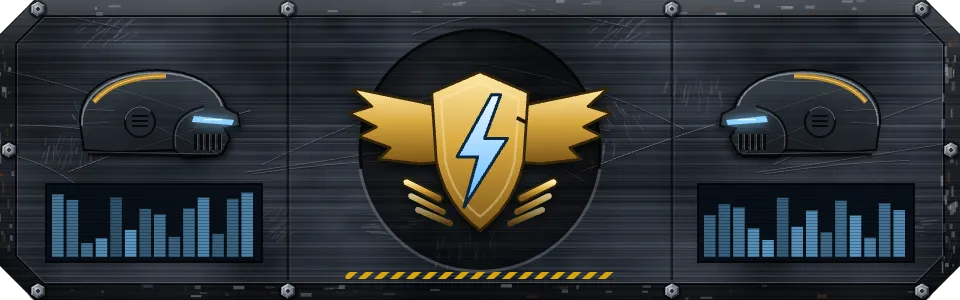
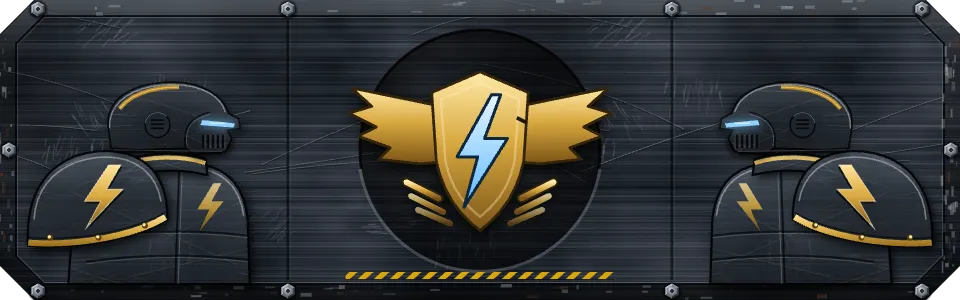
Two Fronts menus round 6: a Marine bust leads the hero plate, rust and chipped bevels on every big plate, the account chip a brass tag (Part of #3613)

diff --git a/apps/two-fronts/scripts/plates-paint.js b/apps/two-fronts/scripts/plates-paint.js
@@ -122,6 +122,53 @@ async (insigniaSvg, medals) => {
     g.restore();
   }
 
+  // A Thunder Marine from the chest up, in relief: a gunmetal breastplate with a brass collar and a stencilled bolt, the
+  // near pauldron domed and brass-rimmed with a lightning mark struck in it, and the helmet above, visor lit blue. Drawn
+  // in a 220 x 260 box facing +x, fitted into (x, y, w, h); dir -1 mirrors it about x.
+  function bust(g, x, y, w, h, dir) {
+    const s = Math.min(w / 220, h / 260);
+    g.save(); g.translate(x, y + h - 260 * s); g.scale(dir * s, s);
+    const tex = g.createPattern(steel(256, 131, "#2a313a", false), "repeat");
+    // one raised piece: a drop shadow into the plate, a lit gradient, the steel's grain, a dark outline, a lit top edge
+    const piece = (shape, top, low, edge) => {
+      g.save(); g.shadowColor = "rgba(0,0,0,0.85)"; g.shadowBlur = 10; g.shadowOffsetX = 4; g.shadowOffsetY = 5; shape(); g.fillStyle = "#151a20"; g.fill(); g.restore();
+      const lit = g.createLinearGradient(0, top, 0, low); lit.addColorStop(0, "#66717e"); lit.addColorStop(0.4, "#323a44"); lit.addColorStop(1, "#11151a");
+      shape(); g.fillStyle = lit; g.fill();
+      g.save(); shape(); g.clip(); g.globalAlpha = 0.45; g.fillStyle = tex; g.fillRect(-20, top - 20, 280, low - top + 40); g.restore();
+      shape(); g.lineWidth = 2.2; g.strokeStyle = "rgba(0,0,0,0.9)"; g.stroke();
+      if (edge) { edge(); g.lineWidth = 1.6; g.strokeStyle = "rgba(225,232,240,0.42)"; g.stroke(); }
+    };
+    const brass = (y0, y1) => { const b = g.createLinearGradient(0, y0, 0, y1); b.addColorStop(0, "#ffe39a"); b.addColorStop(0.5, "#d8a83f"); b.addColorStop(1, "#7a5414"); return b; };
+    // the breastplate: broad, sloping to the collar, its foot cut off by the bay
+    const chest = () => { g.beginPath(); g.moveTo(40, 260); g.lineTo(46, 178); g.bezierCurveTo(60, 150, 110, 138, 160, 140); g.bezierCurveTo(196, 142, 214, 160, 218, 196); g.lineTo(220, 260); g.closePath(); };
+    piece(chest, 138, 260, () => { g.beginPath(); g.moveTo(48, 176); g.bezierCurveTo(62, 152, 110, 142, 160, 144); g.bezierCurveTo(192, 146, 210, 162, 214, 192); });
+    // its plates: a centre ridge and two ribbed bands, then a brass bolt stencilled on it, worn back
+    g.beginPath(); g.moveTo(150, 146); g.lineTo(146, 260); g.lineWidth = 2; g.strokeStyle = "rgba(0,0,0,0.7)"; g.stroke();
+    g.beginPath(); g.moveTo(153, 148); g.lineTo(149, 260); g.lineWidth = 1; g.strokeStyle = "rgba(220,228,238,0.25)"; g.stroke();
+    for (const by of [214, 238]) { g.beginPath(); g.moveTo(58, by); g.bezierCurveTo(110, by - 8, 170, by - 8, 218, by - 2); g.lineWidth = 2; g.strokeStyle = "rgba(0,0,0,0.6)"; g.stroke(); g.beginPath(); g.moveTo(58, by + 2); g.bezierCurveTo(110, by - 6, 170, by - 6, 218, by); g.lineWidth = 1; g.strokeStyle = "rgba(220,228,238,0.18)"; g.stroke(); }
+    g.save(); g.globalAlpha = 0.8; g.beginPath(); g.moveTo(184, 160); g.lineTo(168, 186); g.lineTo(180, 186); g.lineTo(170, 208); g.lineTo(194, 178); g.lineTo(182, 178); g.lineTo(192, 160); g.closePath(); g.fillStyle = brass(160, 208); g.fill(); g.restore();
+    // a status lamp on the breast, the visor's cold blue
+    g.save(); g.shadowColor = "rgba(120,200,255,0.9)"; g.shadowBlur = 8; g.beginPath(); g.arc(120, 196, 4, 0, Math.PI * 2); g.fillStyle = "#8fd3ff"; g.fill(); g.restore();
+    // the collar: a thick gorget ring, brass along its lip
+    const collar = () => { g.beginPath(); g.moveTo(64, 160); g.bezierCurveTo(80, 132, 140, 124, 176, 136); g.lineTo(178, 152); g.bezierCurveTo(140, 142, 96, 148, 74, 172); g.closePath(); };
+    piece(collar, 124, 172);
+    g.beginPath(); g.moveTo(68, 160); g.bezierCurveTo(84, 136, 140, 128, 176, 140); g.lineWidth = 4; g.strokeStyle = brass(128, 160); g.stroke();
+    // the pauldron: a big dome over the near shoulder, rimmed in brass, with the lightning mark struck in its face
+    const pauldron = () => { g.beginPath(); g.moveTo(0, 222); g.bezierCurveTo(-4, 160, 30, 128, 78, 128); g.bezierCurveTo(118, 128, 140, 156, 138, 196); g.bezierCurveTo(110, 214, 50, 226, 0, 222); g.closePath(); };
+    piece(pauldron, 128, 226, () => { g.beginPath(); g.moveTo(6, 196); g.bezierCurveTo(8, 156, 40, 134, 78, 134); g.bezierCurveTo(108, 134, 128, 152, 132, 178); });
+    g.save(); pauldron(); g.clip(); g.beginPath(); g.moveTo(0, 222); g.bezierCurveTo(50, 226, 110, 214, 138, 196); g.lineWidth = 12; g.strokeStyle = brass(190, 228); g.stroke();
+    g.beginPath(); g.moveTo(0, 214); g.bezierCurveTo(50, 218, 108, 206, 136, 189); g.lineWidth = 1.4; g.strokeStyle = "rgba(0,0,0,0.6)"; g.stroke(); g.restore();
+    for (const [rx, ry] of [[22, 214], [70, 214], [116, 202]]) { g.beginPath(); g.arc(rx, ry, 3, 0, Math.PI * 2); g.fillStyle = "#5c3f0c"; g.fill(); g.beginPath(); g.arc(rx - 0.8, ry - 0.8, 1.6, 0, Math.PI * 2); g.fillStyle = "#ffe7a6"; g.fill(); }
+    const boltMark = () => { g.beginPath(); g.moveTo(80, 142); g.lineTo(56, 178); g.lineTo(72, 178); g.lineTo(58, 204); g.lineTo(94, 166); g.lineTo(78, 166); g.lineTo(92, 142); g.closePath(); };
+    g.save(); g.translate(1.5, 2); boltMark(); g.fillStyle = "rgba(0,0,0,0.7)"; g.fill(); g.restore();
+    boltMark(); g.fillStyle = brass(142, 204); g.fill(); g.lineWidth = 1; g.strokeStyle = "rgba(255,240,200,0.6)"; g.stroke();
+    // the helmet, set down into the collar
+    g.restore();
+    g.save(); g.translate(x, y + h - 260 * s); g.scale(s, s);
+    if (dir > 0) helmet(g, 58, 222, 58, 1); else helmet(g, -58, -222, 58, -1);
+    g.restore();
+  }
+
   function hero(W, H, seed) {
     const [c, g] = canvas(W, H), r = rng(seed), ch = 34;
     const shape = (inset) => { const k = ch - inset * 0.4; g.beginPath(); g.moveTo(inset + k, inset); g.lineTo(W - inset - k, inset); g.lineTo(W - inset, inset + k); g.lineTo(W - inset, H - inset - k); g.lineTo(W - inset - k, H - inset); g.lineTo(inset + k, H - inset); g.lineTo(inset, H - inset - k); g.lineTo(inset, inset + k); g.closePath(); };
@@ -144,15 +191,9 @@ async (insigniaSvg, medals) => {
     }
     // panel seams: two grooves either side of the insignia's seat
     for (const sx of [W * 0.3, W * 0.7]) { g.fillStyle = "rgba(0,0,0,0.55)"; g.fillRect(sx - 1.5, rim + 4, 3, H - 2 * rim - 8); g.fillStyle = "rgba(210,220,232,0.12)"; g.fillRect(sx + 1.5, rim + 4, 1, H - 2 * rim - 8); }
-    // a Marine's helmet in relief on each outer bay, facing the insignia: the armour leads, not just the badge
-    helmet(g, rim + 30, W * 0.3 - 26, H * 0.3 - 22, 1); helmet(g, W - rim - 30, W * 0.7 + 26, H * 0.3 - 22, -1);
-    // readout windows under the slats: cold blue bar graphs, as if the ship's state is live
-    for (const x0 of [rim + 30, W * 0.7 + 26]) {
-      const ww = W * 0.3 - 26 - rim - 30, y0 = H * 0.3 + 6 * 14 + 10, hh = H - rim - 22 - y0;
-      g.fillStyle = "#081018"; g.fillRect(x0, y0, ww, hh); g.strokeStyle = "rgba(0,0,0,0.8)"; g.lineWidth = 2; g.strokeRect(x0, y0, ww, hh);
-      for (let k = 0; k < 14; k++) { const bh = (0.2 + r() * 0.75) * (hh - 10), bx = x0 + 6 + k * ((ww - 12) / 14); g.fillStyle = `rgba(120,200,255,${0.35 + r() * 0.4})`; g.fillRect(bx, y0 + hh - 5 - bh, (ww - 12) / 14 - 3, bh); }
-      for (let y = y0; y < y0 + hh; y += 3) { g.fillStyle = "rgba(0,0,0,0.25)"; g.fillRect(x0, y, ww, 1); }
-    }
+    // an armoured Marine bust in each outer bay, facing the insignia: the armour leads the plate, not just the badge
+    const bayW = W * 0.3 - 26 - rim - 12;
+    bust(g, rim + 12, rim + 6, bayW, H - 2 * rim - 6, 1); bust(g, W - rim - 12, rim + 6, bayW, H - 2 * rim - 6, -1);
     // the insignia's seat: a recessed disc, then the insignia lit and casting a shadow into it
     const cx = W / 2, cy = H / 2, sr = H * 0.4;
     const pit = g.createRadialGradient(cx, cy - sr * 0.2, sr * 0.2, cx, cy, sr); pit.addColorStop(0, "rgba(0,0,0,0.15)"); pit.addColorStop(1, "rgba(0,0,0,0.6)");
@@ -214,6 +255,44 @@ async (insigniaSvg, medals) => {
     const [c, g] = canvas(FW * FRAMES, FH);
     for (let f = 0; f < FRAMES; f++) wear(g, f * FW, 101 + f * 17);
     save("wear", c, 0.6);
+  }
+
+  // --- 4b. stains.webp: laid over each big plate, stretched to its box, so the steel tile under it never reads as a
+  // repeat: broad mottling too big to tile, rust weeping down from the corner bolts, and paint chipped back to bare metal
+  // along the bevels, each chip with a rust halo. Transparent.
+  {
+    const S = 512, [c, g] = canvas(S, S), r = rng(517), n = noise(r, 3), n2 = noise(r, 7), img = g.getImageData(0, 0, S, S);
+    for (let y = 0; y < S; y++) for (let x = 0; x < S; x++) {
+      const v = n(x / S, y / S) * 0.65 + n2(x / S, y / S) * 0.35, i = (y * S + x) * 4;
+      if (v < 0.5) { img.data[i] = 6; img.data[i + 1] = 7; img.data[i + 2] = 9; img.data[i + 3] = Math.round((0.5 - v) * 22) * 10; }
+      else { img.data[i] = 150; img.data[i + 1] = 160; img.data[i + 2] = 172; img.data[i + 3] = Math.round((v - 0.5) * 10) * 5; }
+    }
+    g.putImageData(img, 0, 0);
+    // rust weeping from the bolts: an orange-brown streak that runs down and fades, a darker core in it
+    g.filter = "blur(2px)";
+    for (const [bx, by] of [[22, 22], [S - 22, 22], [S * 0.5, 22], [22, S * 0.5], [S - 22, S * 0.5]]) {
+      for (let k = 0; k < 2 + Math.floor(r() * 2); k++) {
+        const x = bx + (r() - 0.5) * 14, len = 50 + r() * 120, w = 6 + r() * 8, sway = (r() - 0.5) * 10;
+        const gr = g.createLinearGradient(0, by, 0, by + len); gr.addColorStop(0, "rgba(104,56,24,0.4)"); gr.addColorStop(0.5, "rgba(80,46,22,0.2)"); gr.addColorStop(1, "rgba(80,44,20,0)");
+        g.fillStyle = gr; g.beginPath(); g.moveTo(x - w, by); g.bezierCurveTo(x - w * 0.7 + sway, by + len * 0.4, x - w * 0.3 - sway, by + len * 0.7, x + sway * 0.5, by + len);
+        g.bezierCurveTo(x + w * 0.3 - sway, by + len * 0.7, x + w * 0.7 + sway, by + len * 0.4, x + w, by); g.fill();
+      }
+      g.beginPath(); g.arc(bx, by, 10, 0, Math.PI * 2); g.fillStyle = "rgba(96,52,22,0.3)"; g.fill();
+    }
+    g.filter = "none";
+    // chipped paint along the bevels: ragged flakes of bare steel, thickest in the corners, a rust halo round a few
+    const chip = (x, y, rad) => {
+      const pts = 5 + Math.floor(r() * 4), path = () => { g.beginPath(); for (let k = 0; k < pts; k++) { const a = (k / pts) * Math.PI * 2, rr = rad * (0.5 + r() * 0.8); g[k ? "lineTo" : "moveTo"](x + Math.cos(a) * rr, y + Math.sin(a) * rr * 0.7); } g.closePath(); };
+      if (r() < 0.35) { g.save(); g.filter = "blur(1.5px)"; g.beginPath(); g.arc(x, y + 1, rad * 1.5, 0, Math.PI * 2); g.fillStyle = "rgba(118,62,24,0.3)"; g.fill(); g.restore(); }
+      path(); g.fillStyle = "rgba(0,0,0,0.5)"; g.save(); g.translate(0, 1); g.fill(); g.restore();
+      path(); g.fillStyle = `rgba(${196 + r() * 30},${204 + r() * 26},${214 + r() * 22},${0.2 + r() * 0.3})`; g.fill();
+    };
+    for (let k = 0; k < 150; k++) {
+      const side = Math.floor(r() * 4), t = r() < 0.4 ? (r() < 0.5 ? r() * 0.12 : 1 - r() * 0.12) : r(), d = 2 + Math.pow(r(), 2.6) * 16;
+      const [x, y] = side === 0 ? [t * S, d] : side === 1 ? [S - d, t * S] : side === 2 ? [t * S, S - d] : [d, t * S];
+      chip(x, y, 0.8 + r() * (d < 6 ? 2.6 : 1.4));
+    }
+    save("stains", c, 0.5);
   }
 
   // --- 5. serials.webp: stencilled serials sprayed on the cards and worn back, eight frames stacked. ------------------

diff --git a/apps/two-fronts/src/eqosys.ts b/apps/two-fronts/src/eqosys.ts
@@ -9,7 +9,7 @@ export { APP, EQOSYS };
 export const SIGN_IN_FROM = ["https://two-fronts.notryanquinn.workers.dev"];
 
 /**
- * The warship's plates on every eqosys surface (account chip, achievement toast, report form, lobby, spaces), from the
+ * The warship's plates on every eqosys surface (the account chip as a bolted brass tag, achievement toast, report form, lobby, spaces), from the
  * same tokens the menus wear in styles.css: --steel and --bolts (the baked public/plates), the worn rim --edge,
  * --bevel, brass for the action and the stencil face for titles and labels.
  */
@@ -22,10 +22,12 @@ export const SKIN = {
     "--ui-toast-bg": "var(--plate)", "--ui-shadow": "var(--bevel), 0 4px 0 #05070a, 0 14px 34px rgb(0 0 0 / 0.6)",
   },
   css: `.eq-form,.eq-toast,.rb-lobby,.rb-spaces{background:var(--bolts),var(--steel);background-color:var(--plate);border:8px solid transparent;border-image:var(--edge) 10 round;background-clip:padding-box;padding-inline:18px}
-.eq-chip.in{background:var(--steel);background-color:var(--plate);border-color:#07090c;box-shadow:var(--bevel)}
+.eq-chip.in{padding:2px 3px 2px 18px;background:url("/plates/bolt.webp") left 5px center/9px no-repeat,linear-gradient(180deg,#f6d27a,#d8a83f 48%,#a8781f 52%,#8a6118);border:1px solid #5c3f0c;border-radius:2px;box-shadow:inset 0 1px 0 #fff7dcb3,inset 0 -2px 0 #3c260673,0 2px 0 #05070a,0 3px 6px #000a}
+.eq-chip.in .eq-who{color:#24180a;text-shadow:0 1px 0 #fff0c866}
+.eq-chip.in .eq-btn{min-height:26px;min-width:26px}
 .eq-title,.eq-who,.eq-toast b:not(.eq-badge *),.eq-toast small,.eq-btn{font-family:var(--f-stencil);font-weight:400;text-transform:uppercase;letter-spacing:.1em}
 .eq-title,.eq-toast b:not(.eq-badge *){background:linear-gradient(180deg,var(--brass-hi),var(--brass) 60%,#b07f22);-webkit-background-clip:text;background-clip:text;color:transparent}
-.account .eq-who{font-size:11px;max-width:7em;color:var(--stencil)}.eq-toast small{color:var(--readout);font-family:var(--f-readout);letter-spacing:.14em;white-space:nowrap}.eq-toast svg{filter:drop-shadow(0 0 4px #d8a83f66)}
+.account .eq-who{font-size:11px;max-width:7em}.eq-toast small{color:var(--readout);font-family:var(--f-readout);letter-spacing:.14em;white-space:nowrap}.eq-toast svg{filter:drop-shadow(0 0 4px #d8a83f66)}
 .eq-btn{background:linear-gradient(#ffffff12,#00000040),var(--steel);background-color:#222831;border-color:#07090c;box-shadow:inset 0 1px 0 #ffffff1f,inset 0 -2px 0 #00000073,0 2px 0 #05070a}
 .eq-btn.primary{background:var(--brass-btn);border-color:#5c3f0c;color:var(--ui-on-accent);text-shadow:0 1px 0 #fff0c873;box-shadow:inset 0 1px 0 #fff7dcb3,inset 0 -2px 0 #3c260673,0 2px 0 #3a2706}
 .eq input,.eq select,.eq textarea{background:repeating-linear-gradient(0deg,#8fd3ff08 0 1px,transparent 1px 3px),var(--inset);background-color:#11151b;border-color:#05070a;box-shadow:inset 0 2px 7px #000000bf}`,

diff --git a/apps/two-fronts/src/styles.css b/apps/two-fronts/src/styles.css
@@ -1017,3 +1017,9 @@ button.preset { padding-bottom: 18px; }
 /* The title's account chip: under the crest's readout line. */
 .crest .account { display: flex; justify-content: center; margin: 8px auto 0; }
 .spaces-btn[hidden] { display: none; }
+
+/* --- Round 6 (#3613): the Marines lead as figures, and no big plate looks like the next. scripts/plates.ts paints an
+   armoured Marine bust into each of the hero plate's outer bays (in place of the bar graphs) and adds stains.webp (35 KB,
+   broad mottling too big to tile, rust weeping from the corner bolts, paint chipped back along the bevels), stretched over
+   every big plate as its grime. The account chip is a bolted brass tag (SKIN in eqosys.ts). */
+:root { --grime: url("/plates/stains.webp") 0 0 / 100% 100% no-repeat; }
